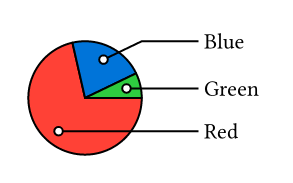
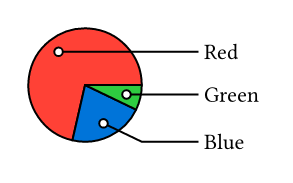
chart: Fix data/label order (#124)
* chart: Fix data and label order being reversed

Fixes #121

* gallery: Use typst preview

* chart: Add tests for labels/data order

* gallery: Fix pie chart

Changed region(s): [[0.0922, 0.1366, 0.8908, 0.8743]]

diff --git a/CHANGES.md b/CHANGES.md
@@ -11,6 +11,9 @@
 ## Draw
 - Fixed issue #24, assert if line has fewer than two points.
 
+## Chart
+- Fixed barchart bars getting labeled in reversed order
+
 # 0.0.2
 ## Content
 - The `content` function now supports a second coordinate as `angle`, to
